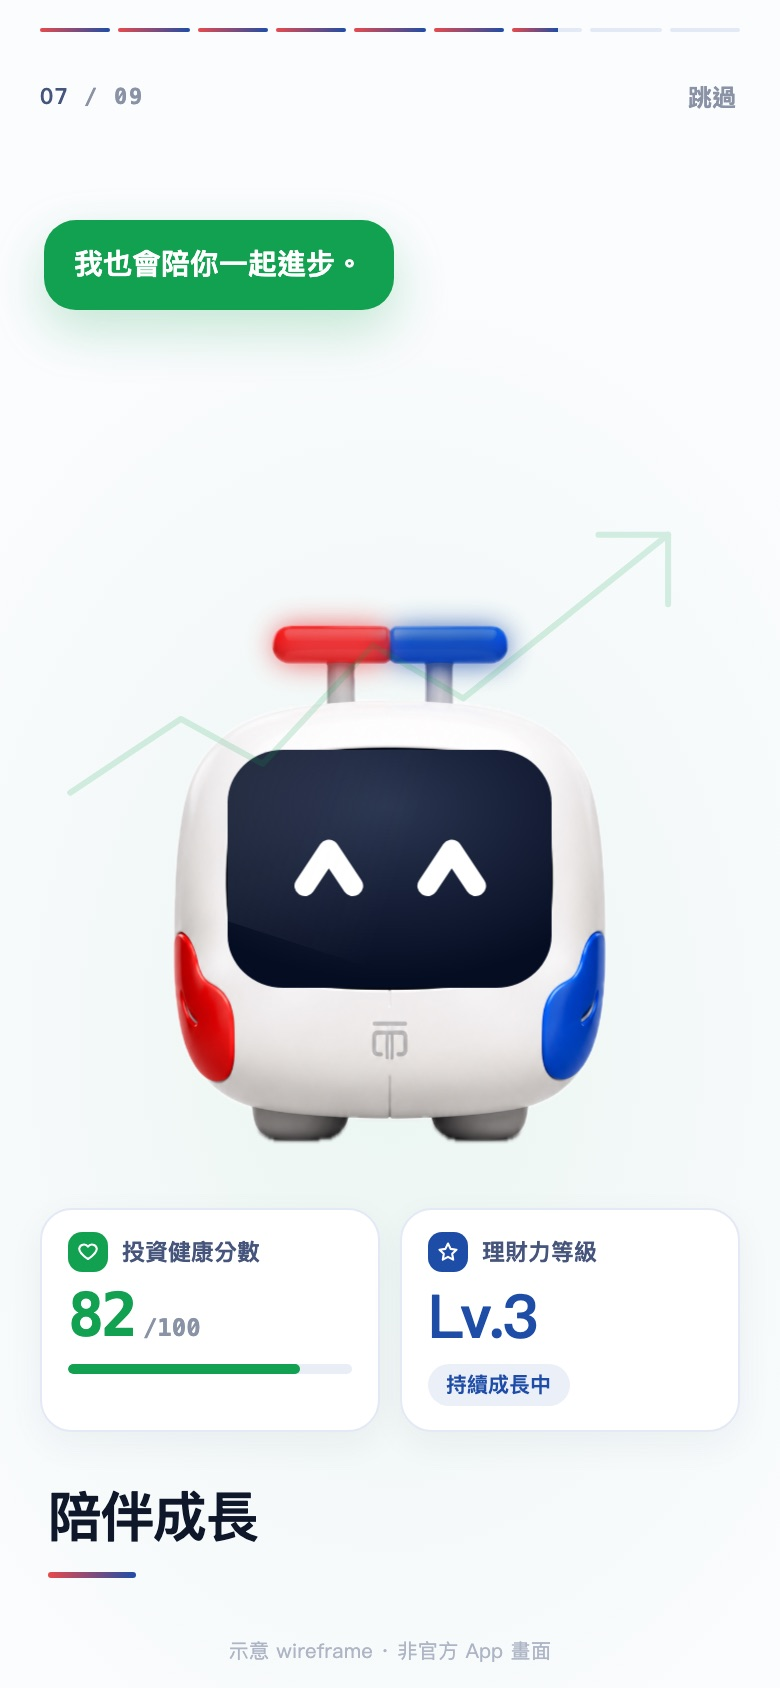
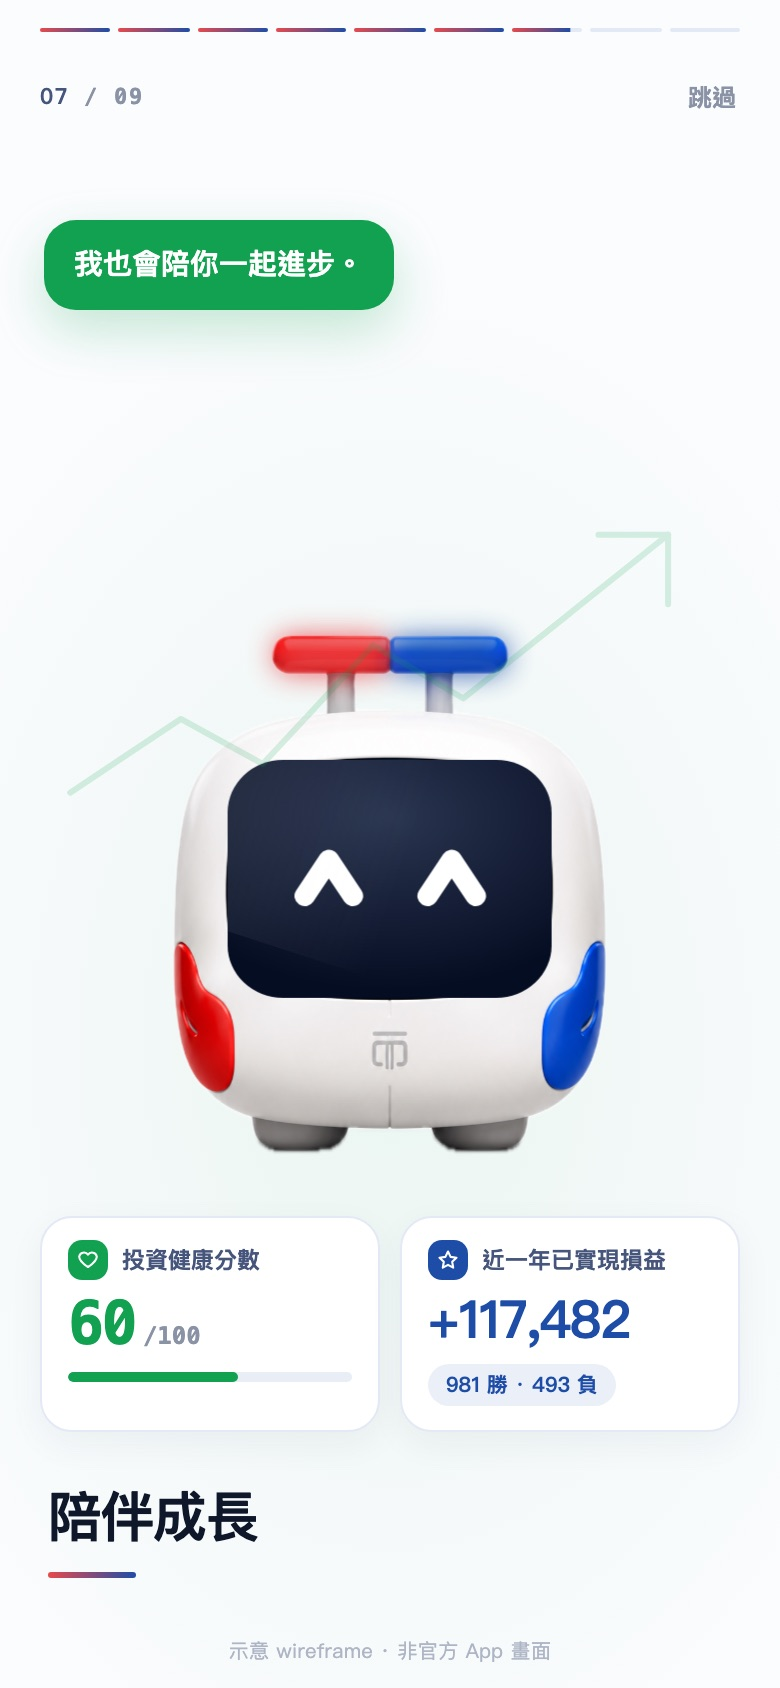
feat(deck): 入口動畫素材進簡報，第 07 幕的示意數字換成真實值
- 第 7 頁改用 brand/intro/intro-shot1-3.mp4（雙品牌合體的實拍原始檔），
  取代原本 Playwright 錄 intro.html 的畫面；poster 換成 shot2
- 新增附錄 9「入口動畫實機定格」：看懂市場／陪伴成長／開始使用三幕並排，
  原附錄 9、10 順延為 10、11
- scripts/shoot_intro.js：擷取定格，並在截圖時修正第 07 幕兩處，
  frontend/intro.html 一個字都不動（凍結後已部署的產品碼）：
    · 投資健康分數 82 → 60。82 是動畫示意值，真實值是 60，簡報第 5 頁寫的也是 60，
      兩個數字同時出現在評審面前只會被問哪個才對
    · 「理財力等級 Lv.3」整張換成已實現損益 +117,482（981 勝／493 負）。
      這不是數字錯而已——insights-core.js 開頭與 insights.html 都明文禁止
      「投資能力／風險等級」這類標籤，留著會跟第 9 頁「問卷結果不是貼標籤」互打
  改不到任何一項會印警告，不會安靜地截一張錯的

驗過：26 頁、0 爆版、0 破圖、0 JS 錯誤。

diff --git a/scripts/shoot_intro.js b/scripts/shoot_intro.js
@@ -1,0 +1,98 @@
+#!/usr/bin/env node
+/**
+ * shoot_intro.js — 從入口動畫擷取簡報要用的定格
+ *
+ *   node scripts/shoot_intro.js
+ *   → docs/brand/intro/shot{2,5,7,9}.jpg
+ *
+ * 第 07 幕要改兩個地方才能進簡報，改法只作用在截圖，
+ * frontend/intro.html 一個字都不動——那支是 code freeze 之後已經部署的產品碼。
+ *
+ *  1. 投資健康分數 82 → 60。82 是動畫的示意值，真實值是 health_report.json 算出來的 60
+ *     （追高控制 40%＋勝率 30%＋出金紀律 30%）。簡報第 5 頁寫的是 60，
+ *     兩個數字同時出現在評審眼前只會被問哪個才對。
+ *  2.「理財力等級 Lv.3」整張換掉，不是改數字。產品自己禁止這種標籤：
+ *     insights-core.js 開頭「不出現投資能力／風險等級／健康分數」、
+ *     insights.html 也有對應免責。留著會跟第 9 頁「問卷結果不是貼標籤」互打。
+ *     換成已實現損益——那是真的、可查證，而且是全場最強的一個數字。
+ */
+const path = require('path');
+const fs = require('fs');
+const { execFileSync } = require('child_process');
+const { chromium } = require('playwright');
+
+const ROOT = path.join(__dirname, '..');
+const OUT = path.join(ROOT, 'docs', 'brand', 'intro');
+const TMP = path.join(ROOT, '.introshot_tmp');
+
+const WANT = ['2', '5', '7', '9'];
+
+/** 第 07 幕的修正，回傳實際改到的項目，改不到要讓它出聲而不是安靜地截一張錯的 */
+function fixShot7() {
+  const done = [];
+  const cards = document.querySelectorAll('[data-shot="7"] .st');
+  if (cards.length < 2) return done;
+
+  // ① 健康分 82 → 60
+  const score = cards[0].querySelector('.st-v b');
+  if (score && score.textContent.trim() === '82') {
+    score.textContent = '60';
+    done.push('健康分 82→60');
+  }
+  const bar = cards[0].querySelector('.st-bar i');
+  if (bar) { bar.style.width = '60%'; done.push('進度條 82%→60%'); }
+
+  // ② 理財力等級 → 已實現損益（產品禁止能力／等級標籤）
+  const lv = cards[1];
+  const label = lv.querySelector('.st-h span:last-child');
+  const val = lv.querySelector('.st-v');
+  const pill = lv.querySelector('.st-pill');
+  if (label && val) {
+    label.textContent = '近一年已實現損益';
+    val.innerHTML = '<b style="font-size:26px;letter-spacing:-.02em">+117,482</b>';
+    done.push('理財力等級 Lv.3 → 已實現損益 +117,482');
+  }
+  if (pill) { pill.textContent = '981 勝 · 493 負'; done.push('pill → 勝負筆數'); }
+  return done;
+}
+
+(async () => {
+  fs.mkdirSync(OUT, { recursive: true });
+  fs.rmSync(TMP, { recursive: true, force: true });
+  fs.mkdirSync(TMP, { recursive: true });
+
+  const browser = await chromium.launch();
+  const page = await browser.newPage({ viewport: { width: 390, height: 844 }, deviceScaleFactor: 2 });
+  await page.goto('file://' + path.join(ROOT, 'frontend', 'intro.html'), { waitUntil: 'domcontentloaded' });
+
+  const grabbed = new Set();
+  for (let t = 0; t < 30000 && grabbed.size < WANT.length; t += 400) {
+    await page.waitForTimeout(400);
+    const n = await page.evaluate(() => document.querySelector('.stage')?.getAttribute('data-shot'));
+    if (!n || grabbed.has(n) || !WANT.includes(n)) continue;
+
+    await page.waitForTimeout(1100);                 // 等這一幕的入場動畫停下來
+    if (n === '7') {
+      const done = await page.evaluate(fixShot7);
+      if (!done.length) console.log('   ⚠ 第 07 幕沒改到任何東西——版面可能變了，這張先別用');
+      else done.forEach(d => console.log(`   · ${d}`));
+      await page.waitForTimeout(250);
+    }
+    const png = path.join(TMP, `shot${n}.png`);
+    await page.screenshot({ path: png });
+    grabbed.add(n);
+
+    const jpg = path.join(OUT, `shot${n}.jpg`);
+    try {
+      execFileSync('sips', ['-s', 'format', 'jpeg', '-s', 'formatOptions', '82', png, '--out', jpg],
+                   { stdio: 'ignore' });
+    } catch (_) { fs.copyFileSync(png, jpg.replace(/\.jpg$/, '.png')); }
+    console.log(`✓ shot${n}.jpg`);
+  }
+
+  const missed = WANT.filter(n => !grabbed.has(n));
+  if (missed.length) console.log(`✗ 沒截到第 ${missed.join('、')} 幕`);
+
+  await browser.close();
+  fs.rmSync(TMP, { recursive: true, force: true });
+})();

diff --git a/docs/PITCH_DECK.html b/docs/PITCH_DECK.html
@@ -252,6 +252,14 @@
   .jscore{margin-top:26px;padding-top:18px;border-top:1px solid #26262A;
           font-size:17px;line-height:1.7;color:#86868B;font-weight:600}
   .stackline{font-size:20px;color:#5A5A5F;text-align:center;margin-top:32px;letter-spacing:.06em}
+  /* 入口動畫定格：三支手機並排。高度給 flex:1 自己算，寫死 px 換一台投影機就爆版 */
+  .frames{display:flex;gap:40px;width:100%;flex:1;min-height:0;align-items:stretch}
+  .frames figure{flex:1;display:flex;flex-direction:column;gap:16px;min-height:0}
+  .frames img{flex:1;min-height:0;width:100%;object-fit:contain;object-position:top;
+              border-radius:22px}
+  .light .frames img{box-shadow:0 18px 40px rgba(15,23,42,.16)}
+  .frames figcaption{font-size:18px;line-height:1.5;color:#6E6E73;text-align:center}
+  .frames figcaption b{color:#1D1D1F;font-weight:700}
   .slide.on .jst{animation:rise .85s cubic-bezier(.22,1,.36,1) both;
                  animation-delay:calc(var(--j,0) * 150ms + 450ms)}
   .slide.on .gp li{animation:rise .8s cubic-bezier(.22,1,.36,1) both;
@@ -487,8 +495,8 @@
       <div class="tags"><em class="hot">創意度 25%</em><em>主題切合度 10%</em></div>
     </div>
     <div class="right">
-      <div class="vbox"><img class="media" data-video="demo/02_intro.webm" src="brand/kv_meet.png" alt=""></div>
-      <div class="vcap">兩個 logo 合成一個夥伴 → 它會做什麼、不會做什麼</div>
+      <div class="vbox"><img class="media" data-video="brand/intro/intro-shot1-3.mp4" src="brand/intro/shot2.jpg" alt=""></div>
+      <div class="vcap">紅色的 MaiCoin、藍色的 MAX——合成一個夥伴</div>
     </div>
   </div>
 </section>
@@ -834,8 +842,28 @@
   <img class="kvfull" src="brand/storyboard.png" alt="麥麥入口動畫分鏡腳本">
 </section>
 
+<!-- ═══ 附錄 9 入口動畫定格 ═══ -->
+<section class="slide appendix m-idle" data-n="附錄 9" style="padding:70px 90px 46px">
+  <div class="eyebrow" style="margin-bottom:14px">入口動畫實機定格</div>
+  <h2 style="font-size:40px;margin-bottom:30px">九幕裡的三幕，就把整個產品講完了。</h2>
+  <div class="frames">
+    <figure>
+      <img src="brand/intro/shot5.jpg" alt="看懂市場">
+      <figcaption><b>看懂市場</b>　K 線、新聞、ETF、BTC——換成你聽得懂的一句話</figcaption>
+    </figure>
+    <figure>
+      <img src="brand/intro/shot7.jpg" alt="陪伴成長">
+      <figcaption><b>陪伴成長</b>　健康分 60、已實現損益 +117,482，都是真實值</figcaption>
+    </figure>
+    <figure>
+      <img src="brand/intro/shot9.jpg" alt="開始使用">
+      <figcaption><b>開始使用</b>　先講清楚界線，再開始</figcaption>
+    </figure>
+  </div>
+</section>
+
 <!-- ═══ 附錄 · 預期問答（一）═══ -->
-<section class="slide appendix m-idle" data-n="附錄 9">
+<section class="slide appendix m-idle" data-n="附錄 10">
   <div class="eyebrow">評審可能會問的 — 產品與商業</div>
   <div class="qa">
     <div class="col">
@@ -881,7 +909,7 @@
 </section>
 
 <!-- ═══ 附錄 · 預期問答（二）誠實清單 ═══ -->
-<section class="slide ink appendix m-risk" data-n="附錄 10">
+<section class="slide ink appendix m-risk" data-n="附錄 11">
   <div class="eyebrow">評審可能會問的 — 我們還沒做到的</div>
   <h2 style="color:#fff;font-size:54px;margin-bottom:16px">這一節存在的理由：<br>上面每一條都有證據，<span class="grad">這一節才可信</span>。</h2>
   <div class="qa" style="margin-top:20px">
